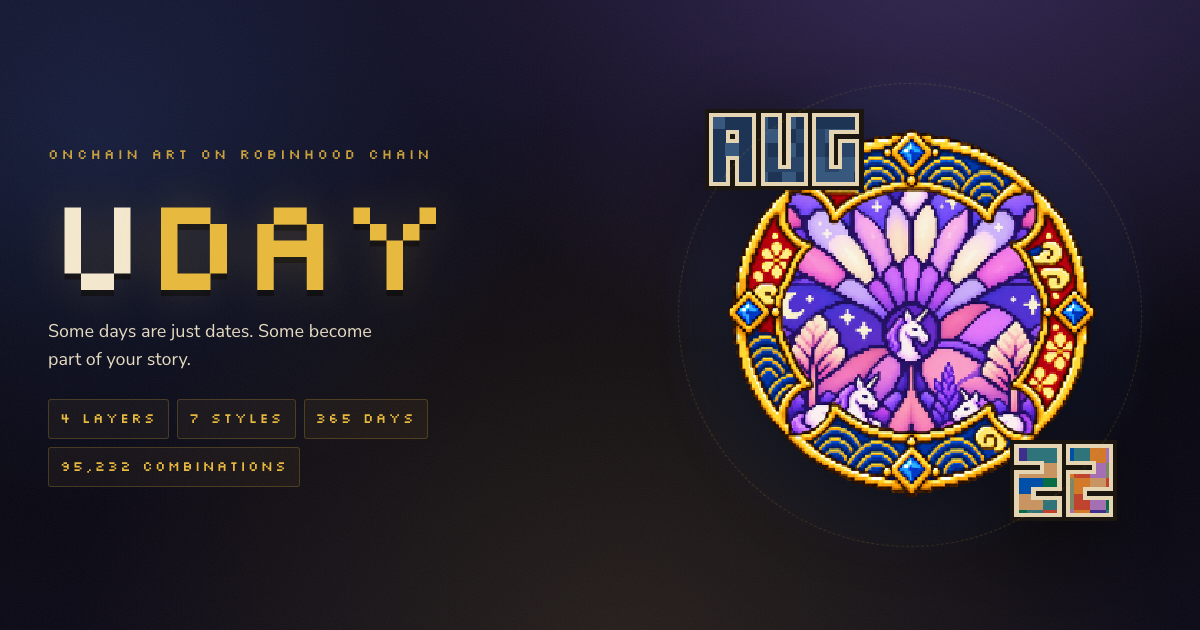
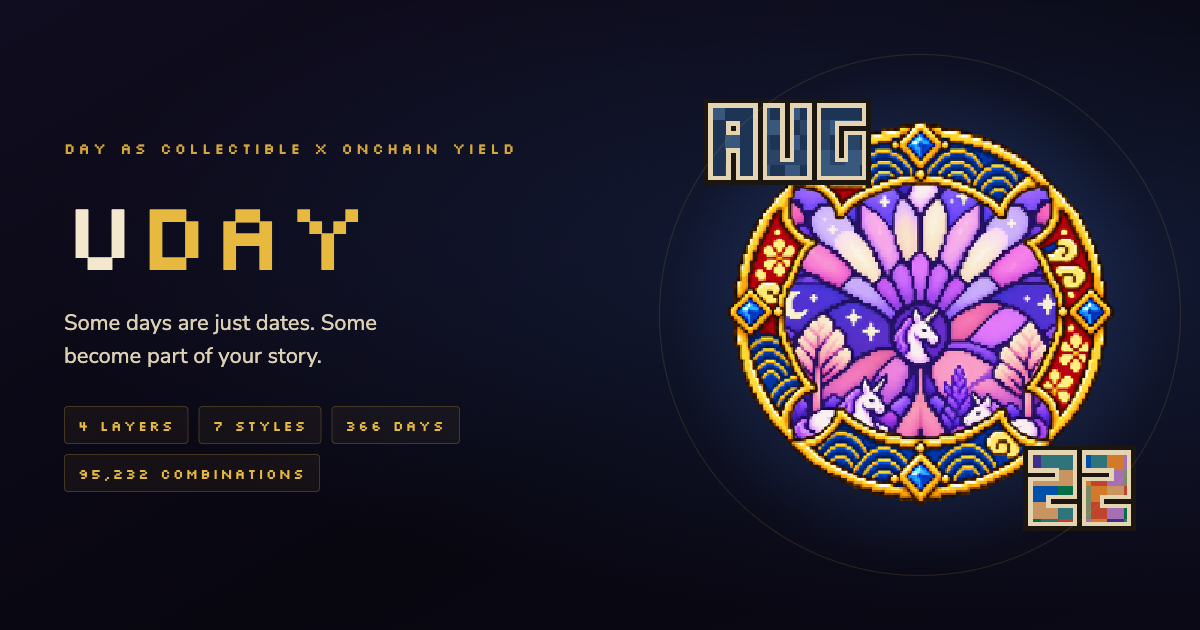
og: redraw the share card, and refresh the numbers JS cannot reach
The card was built in the first commit and never touched, so X was
showing a homepage that no longer exists: "ONCHAIN ART ON ROBINHOOD
CHAIN" for a kicker that now reads DAY AS COLLECTIBLE X ONCHAIN YIELD,
and "365 DAYS" for a collection that has always had 366 — February 29 is
in the layer set.

Composed, not screenshotted. A live capture of the hero puts BUTTONS in
a static image — FIND YOUR DAY, CLAIM THE GIFT — which read as clickable
and are not, and spends a third of the card on a dropdown. Same
composition as the original, which was right; only its content had
aged. The harness lives in the gitignored _og.html so the next redraw is
a re-render, not a redesign.

And the story numbers. The rendered ones were already live and already
correct — 3,607 sealed, 32,692 burned, 363 lit match the index exactly.
What had rotted was the copy baked into the markup, which still said
3,740 / 30,680 / 362: what a crawler reads, what a no-JS visitor reads,
and what shows for the frame before renderStory runs. Those paragraphs
carry no data-i18n, so the i18n suite cannot see them drift.

Refreshed at all five sites, markup and JS fallbacks together. They will
drift again — the honest fix is to let the hourly index bot rewrite
them, which is a CI change and not this one.

Claude-Session: https://claude.ai/code/session_01Bj2xAAbLxm1tffGYZrMtwZ

diff --git a/index.html b/index.html
@@ -1385,10 +1385,10 @@ html.leaving main{ opacity:0; transition:opacity .17s ease-in; }
              rather than the [data-i18n] walker (which would paint the raw
              {placeholders}). The text below is the no-JS fallback. -->
         <div class="story__body">
-          <p class="drop" id="story-p1">Pick one and it exists — not a picture of a date, but four layers the contract draws itself. Yours is settled the moment its last layer opens. Right now 3,740 pieces are still sealed: their dates are unknown even to the wallets holding them.</p>
-          <p id="story-p2">And a day can die. Selling burns the piece — 30,680 have burned already. Sell the last one carrying a date and that day goes dark on the calendar, waiting for someone to bring it back.</p>
+          <p class="drop" id="story-p1">Pick one and it exists — not a picture of a date, but four layers the contract draws itself. Yours is settled the moment its last layer opens. Right now 3,607 pieces are still sealed: their dates are unknown even to the wallets holding them.</p>
+          <p id="story-p2">And a day can die. Selling burns the piece — 32,692 have burned already. Sell the last one carrying a date and that day goes dark on the calendar, waiting for someone to bring it back.</p>
           <p class="story__gift" id="story-gift">Hold one, though, and it pays. When the calendar reaches your date, its holders claim that day’s gift at uday.gift — every year, on your day.</p>
-          <p id="story-p3">Keep one for yourself. Send one to someone who matters. 362 of the year’s 366 days are lit so far — the rest are still waiting to be born.</p>
+          <p id="story-p3">Keep one for yourself. Send one to someone who matters. 363 of the year’s 366 days are lit so far — the rest are still waiting to be born.</p>
         </div>
       </div>
     </div>
@@ -2848,8 +2848,8 @@ async function openPoster(scope){
 /// Fallbacks are the values true at the time of writing, used only if the
 /// index never loads (the static HTML says the same).
 function renderStory(){
-  const m = INDEX_META || { unrevealed: 3740, burned: 30680 };
-  const lit = DAYS ? Object.keys(DAYS).filter(isRealDate).length : 362;
+  const m = INDEX_META || { unrevealed: 3607, burned: 32692 };
+  const lit = DAYS ? Object.keys(DAYS).filter(isRealDate).length : 363;
   const n = { sealed: (m.unrevealed || 0).toLocaleString(),
               burned: (m.burned || 0).toLocaleString(), lit: lit };
   [['story-p1', 'story.p1'], ['story-p2', 'story.p2'],
